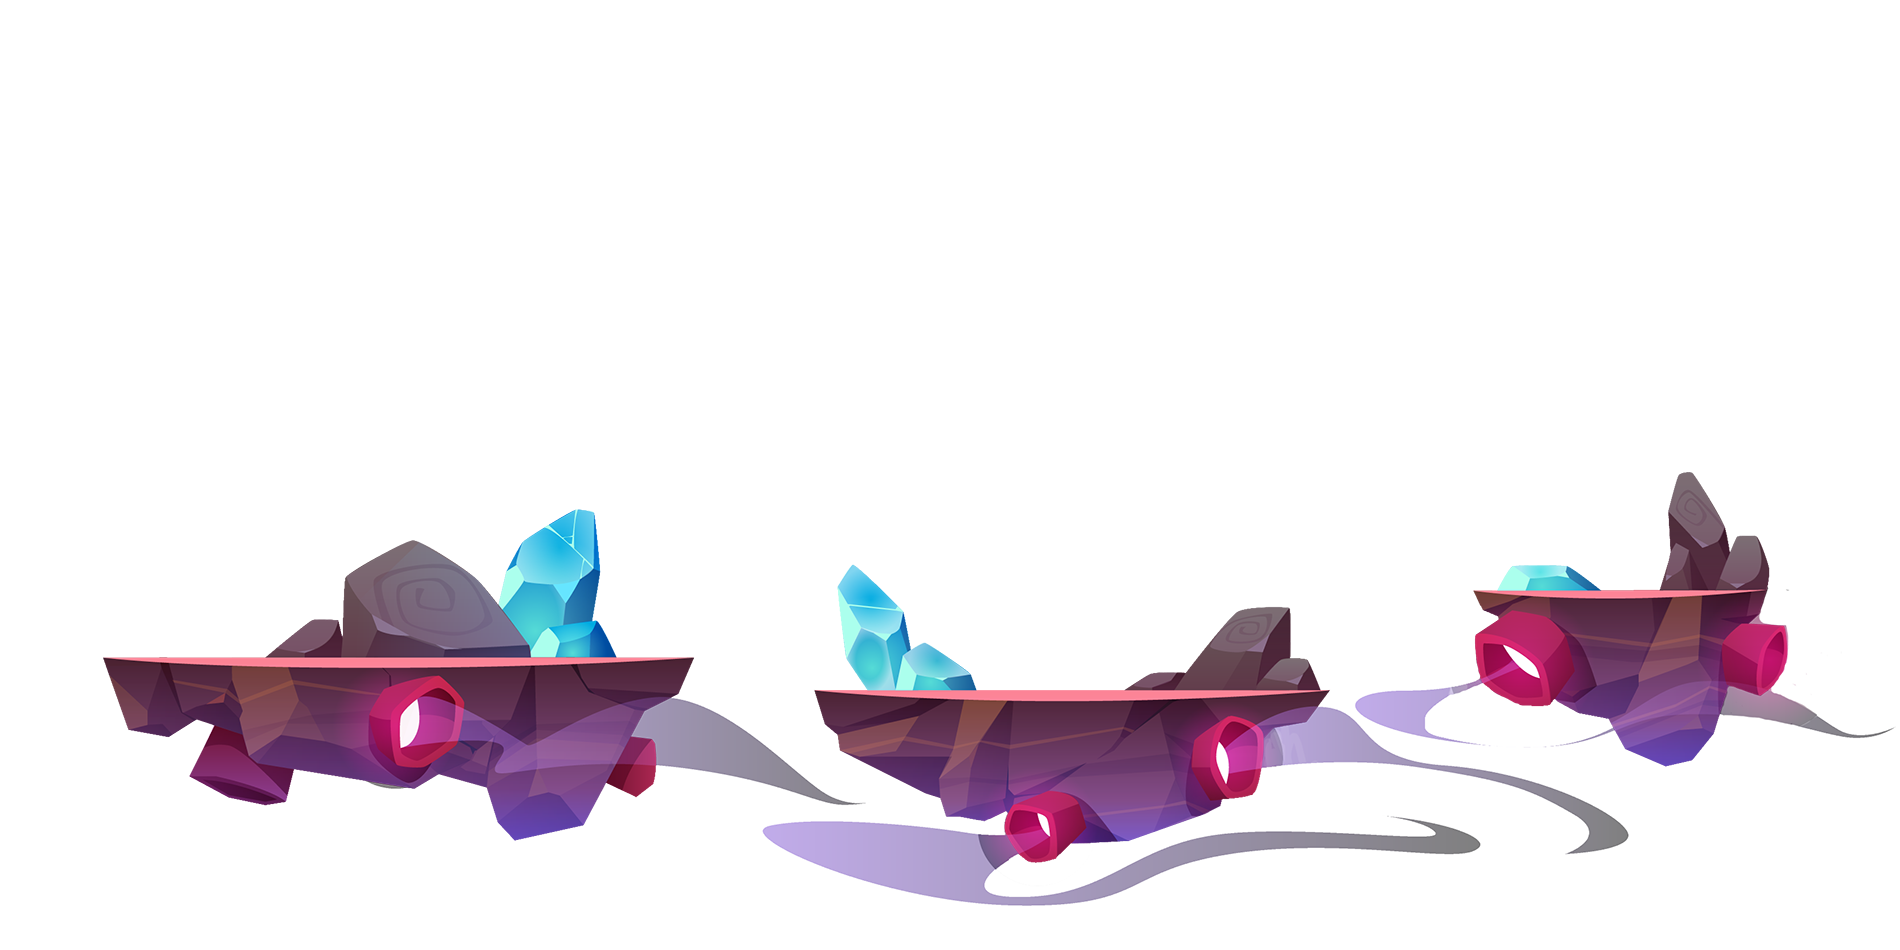
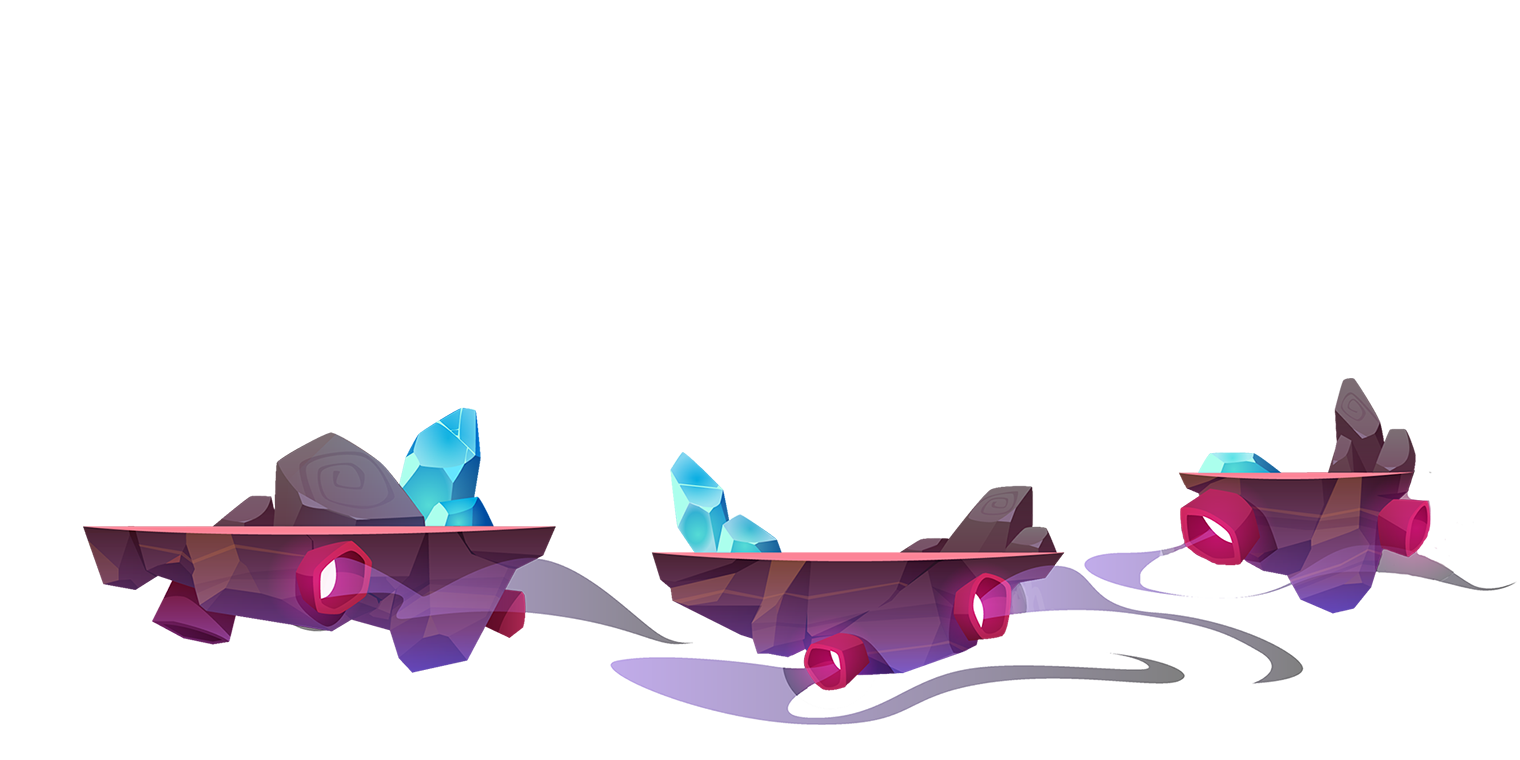
🎨Changed file size for images to improve the load speed of home page.

diff --git a/home.html b/home.html
@@ -61,10 +61,6 @@
      Dicat accumsan in sed, 
      nec in errem postea dissentiunt. 
      Adhuc putent honestatis sed ex. 
-     Viris tollit patrioque at eam, affert utinam vis ex. Vis id utroque appellantur, civibus accusata accommodare te sit.
-    
-    Omittam sadipscing scriptorem eu pro, veritus scriptorem eam cu. Sea ne porro quaestio, sea discere omnesque voluptatibus id, eos ad eruditi saperet graecis. In his bonorum veritus, ferri nonumy maiorum in mei. Inimicus abhorreant vis ne, eu vide simul comprehensam eos, in sit dolorum utroque debitis. Nusquam reprehendunt per ex. Augue dignissim assentior te nam, his persius laoreet luptatum no, id mandamus repudiandae duo.</p>
-
 </div>
 
 <script src="backend/functions.js"></script>
